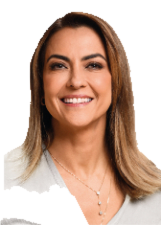
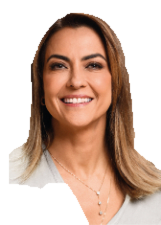
Refine all portraits and add G1 first-round history

diff --git a/public/app.js b/public/app.js
@@ -157,6 +157,7 @@ const state = {
   lastSourceComparison: 0,
   sourceComparisons: [],
   historyArchive: null,
+  publishedHistory: null,
 };
 const MAX_LOCAL_HISTORY_POINTS = 720;
 function numberForCandidate(candidate) {
@@ -233,9 +234,27 @@ const providerName = (p) =>
     "eleicoes-feed": "Feed independente",
     "placar-do-voto": "Placar do Voto",
     "cnn-brasil": "CNN Brasil · painel baseado no TSE",
+    "g1-history": "G1 · histórico baseado no TSE",
     "historical-archive": "Acervo histórico · TSE derivado",
   })[p] || "Indisponível";
 let electionArchivePromise = null;
+let firstRoundHistoryPromise = null;
+function loadFirstRoundHistory() {
+  firstRoundHistoryPromise ??= fetch(`${import.meta.env.BASE_URL}data/history-2026-1-br.json`, {
+    cache: "no-cache",
+  }).then(async (response) => {
+    if (!response.ok) throw new Error(`Histórico do G1 indisponível (HTTP ${response.status}).`);
+    const data = await response.json();
+    if (data.schemaVersion !== 1 || data.year !== 2026 || data.turn !== 1 ||
+      data.provider !== "g1-history" || !Array.isArray(data.points))
+      throw new Error("Arquivo histórico do G1 inválido.");
+    return data;
+  }).catch((error) => {
+    firstRoundHistoryPromise = null;
+    throw error;
+  });
+  return firstRoundHistoryPromise;
+}
 function loadElectionArchive() {
   electionArchivePromise ??= fetch(`${import.meta.env.BASE_URL}data/results.json`, {
     cache: "no-cache",
@@ -782,6 +801,22 @@ function chooseWorldCountry(event) {
 let chartPoints = [];
 function renderHistory(history) {
   const selected = candidates(state.result);
+  const publishedHistoryKey = `2026:1:${state.scope}`;
+  if (state.year === 2026 && state.turn === 1 && state.scope === "brasil" &&
+      state.publishedHistory?.key !== publishedHistoryKey) {
+    state.publishedHistory = { key: publishedHistoryKey, points: null, error: null };
+    loadFirstRoundHistory().then((archive) => {
+      if (state.year !== 2026 || state.turn !== 1 || state.scope !== "brasil" ||
+        state.publishedHistory?.key !== publishedHistoryKey) return;
+      state.publishedHistory = { key: publishedHistoryKey, ...archive };
+      renderHistory(state.history);
+    }).catch((error) => {
+      console.warn("Não foi possível abrir o histórico publicado do G1:", error.message);
+      if (state.publishedHistory?.key !== publishedHistoryKey) return;
+      state.publishedHistory = { key: publishedHistoryKey, points: [], error: error.message };
+      renderHistory(state.history);
+    });
+  }
   const hasArchivedFinal = state.year === 2022 || (state.year === 2026 && state.turn === 1);
   const archiveKey = `${state.year}:${state.turn}:${state.scope}:${state.pair.join(",")}`;
   if (hasArchivedFinal && state.historyArchive?.key !== archiveKey) {
@@ -833,10 +868,27 @@ function renderHistory(history) {
   const archive = hasArchivedFinal && state.historyArchive?.key === archiveKey
     ? state.historyArchive
     : null;
+  const publishedHistory = state.publishedHistory?.key === publishedHistoryKey
+    ? state.publishedHistory
+    : null;
   const archivedRoundSeries = state.year === 2022 && Array.isArray(archive?.points);
-  const archivedSingleRound = state.year === 2026 && state.turn === 1 && Array.isArray(archive?.points);
-  $("historyEyebrow").textContent = archivedRoundSeries || archivedSingleRound ? "RESULTADOS FINAIS ARQUIVADOS" : "EVOLUÇÃO DA DISPUTA";
-  $("historyTitle").textContent = archivedRoundSeries ? "Comparação entre os turnos" : archivedSingleRound ? "Resultado final · 1º turno" : "Histórico de votos";
+  const liveG1History = history?.provider === "g1-history" &&
+    Array.isArray(history.points) && history.points.length > 0;
+  const staticG1History = Array.isArray(publishedHistory?.points) && publishedHistory.points.length > 0;
+  const temporalFirstRound = state.year === 2026 && state.turn === 1 &&
+    (liveG1History || staticG1History);
+  const archivedSingleRound = state.year === 2026 && state.turn === 1 &&
+    Array.isArray(archive?.points) && !temporalFirstRound;
+  $("historyEyebrow").textContent = archivedRoundSeries
+    ? "RESULTADOS FINAIS ARQUIVADOS"
+    : temporalFirstRound
+      ? "SÉRIE HISTÓRICA G1 · BASEADA NO TSE"
+      : archivedSingleRound ? "RESULTADOS FINAIS ARQUIVADOS" : "EVOLUÇÃO DA DISPUTA";
+  $("historyTitle").textContent = archivedRoundSeries
+    ? "Comparação entre os turnos"
+    : temporalFirstRound
+      ? "Evolução da apuração · 1º turno"
+      : archivedSingleRound ? "Resultado final · 1º turno" : "Histórico de votos";
   $("windowSelect").disabled = archivedRoundSeries || archivedSingleRound;
   $("windowSelect").value = archivedRoundSeries || archivedSingleRound ? "all" : state.window;
   const localPoints = state.year === 2026
@@ -846,30 +898,42 @@ function renderHistory(history) {
         right: Number.isFinite(sample.values[state.pair[1]]) ? sample.values[state.pair[1]] : null,
       }))
     : [];
-  const remoteAllowed =
-    state.year === 2026 &&
-    state.turn === 2 &&
-    new Set(state.pair).size === 2 &&
-    state.pair.includes("22") &&
-    state.pair.includes("13");
+  const firstRoundPoints = liveG1History ? history.points : staticG1History ? publishedHistory.points : [];
+  const remoteAllowed = state.year === 2026 && (
+    (state.turn === 1 && firstRoundPoints.length > 0) ||
+    (state.turn === 2 && new Set(state.pair).size === 2 &&
+      state.pair.includes("22") && state.pair.includes("13"))
+  );
   const remotePoints = remoteAllowed
-    ? historyPoints(history?.points).map((point) => ({
+    ? historyPoints(state.turn === 1 ? firstRoundPoints : history?.points).map((point) => ({
         at: point.at,
-        left: state.pair[0] === "22" ? point.flavio : point.lula,
-        right: state.pair[1] === "22" ? point.flavio : point.lula,
+        left: Object.hasOwn(point.candidates || {}, state.pair[0])
+          ? point.candidates[state.pair[0]]
+          : state.pair[0] === "22" ? point.flavio : state.pair[0] === "13" ? point.lula : null,
+        right: Object.hasOwn(point.candidates || {}, state.pair[1])
+          ? point.candidates[state.pair[1]]
+          : state.pair[1] === "22" ? point.flavio : state.pair[1] === "13" ? point.lula : null,
       }))
     : [];
-  const remoteFiltered = filterHistoryWindow(remotePoints, state.window);
-  const points = archivedRoundSeries || archivedSingleRound
+  const remoteFiltered = filterHistoryWindow(
+    remotePoints,
+    state.window,
+    temporalFirstRound && remotePoints.length ? remotePoints.at(-1).at : Date.now(),
+  );
+  const points = archivedRoundSeries
     ? archive.points
-    : remoteFiltered.length
-    ? remoteFiltered
-    : filterHistoryWindow(localPoints, state.window);
-  const localSelected = !remoteFiltered.length && localPoints.length > 0;
+    : temporalFirstRound
+      ? remoteFiltered
+      : remoteFiltered.length
+        ? remoteFiltered
+        : archivedSingleRound ? archive.points : filterHistoryWindow(localPoints, state.window);
+  const localSelected = !temporalFirstRound && !remoteFiltered.length && localPoints.length > 0;
   const chartHistoryError =
-    state.year === 2022 || (state.year === 2026 && state.turn === 1)
+      state.year === 2022 || archivedSingleRound || temporalFirstRound
       ? archive?.error
         ? `Não foi possível abrir os resultados finais do acervo: ${archive.error}`
+        : temporalFirstRound
+          ? !points.length ? "O G1 não tem pontos publicados nesta janela." : null
         : !(archivedRoundSeries || archivedSingleRound)
           ? "Carregando os resultados finais arquivados desta eleição."
           : !points.length
@@ -931,6 +995,10 @@ function renderHistory(history) {
   $("historyLegendLula").parentElement.querySelector(".dot").style.backgroundColor = series[1].color;
   $("historySource").textContent = archivedRoundSeries
     ? "Acervo histórico independente · TSE derivado"
+    : temporalFirstRound
+    ? liveG1History
+      ? providerName(history?.provider)
+      : "G1 · arquivo histórico baseado no TSE"
     : archivedSingleRound
     ? `${providerName(archive?.provider)} · resultado final arquivado`
     : remoteFiltered.length
@@ -940,6 +1008,8 @@ function renderHistory(history) {
       : "Fonte sem série disponível";
   $("historyNote").textContent = archivedRoundSeries && points.length
     ? "Percentuais finais reais do 1º e do 2º turno, por localidade. O acervo não guarda a evolução horária da apuração; candidato ausente em um turno permanece como lacuna."
+    : temporalFirstRound && points.length
+    ? `Atualizações históricas publicadas pelo G1 (${points.length} pontos) para esta localidade. Os percentuais vêm do painel baseado no TSE; lacunas permanecem vazias.`
     : archivedSingleRound && points.length
     ? "Percentuais finais publicados do 1º turno nesta localidade. O acervo não guarda a evolução horária da apuração; este ponto não representa uma série temporal."
     : localSelected && points.length
@@ -949,11 +1019,11 @@ function renderHistory(history) {
       : "Lacunas permanecem vazias. Nenhum valor é estimado.");
   $("chartTooltip").hidden = true;
 }
-function filterHistoryWindow(points, windowKey) {
+function filterHistoryWindow(points, windowKey, anchor = Date.now()) {
   if (windowKey === "all") return points.slice().sort((a, b) => a.at - b.at);
   const horizon = windowKey === "1h" ? 3600000 : 10800000;
-  const min = Date.now() - horizon;
-  return points.filter((point) => point.at >= min && point.at <= Date.now()).sort((a, b) => a.at - b.at);
+  const min = anchor - horizon;
+  return points.filter((point) => point.at >= min && point.at <= anchor).sort((a, b) => a.at - b.at);
 }
 function tooltip(event) {
   const node = event.target.closest("[data-point]");
@@ -1282,8 +1352,10 @@ function changeElection() {
   resetEventContext();
   state.year = Number($("yearSelect").value);
   state.turn = Number($("turnSelect").value);
+  if (state.year === 2026 && state.turn === 1) state.window = "all";
   state.pair = ["22", "13"];
   setComparisonNumbers(state.pair);
+  $("windowSelect").value = state.window;
   revision++;
   controller?.abort();
   snapshotController?.abort();

diff --git a/public/images/credits.html b/public/images/credits.html
@@ -98,12 +98,11 @@
   <section>
     <h2>Tratamento aplicado</h2>
     <p>
-      As fotografias JPEG originais dos candidatos estão preservadas. As cópias
-      PNG com canal alpha tiveram o fundo removido por preenchimento conectado
-      iniciado nos cantos, com tolerância de cor de 8%; os pixels do retrato
-      mantidos não foram gerados nem repintados. Essa técnica também é aplicada
-      aos retratos de candidatura de 2022 e 2026 incluídos neste repositório.
-      Não se usam rostos gerados no painel.
+      As fotografias JPEG originais dos candidatos estão preservadas. Os vinte
+      retratos complementares (dez de 2022 e dez de 2026) foram recortados
+      novamente como PNG com canal alpha usando segmentação GrabCut e máscaras
+      de contorno. Os pixels RGB coincidem com os JPEGs originais; somente o
+      canal alpha foi refeito. Não se usam rostos gerados no painel.
     </p>
     <p>
       O recorte muda apenas a transparência do fundo e das bordas; as fotos JPEG
@@ -115,13 +114,11 @@
       servidos localmente; não há dependência de CDN de imagens.
     </p>
     <p>
-      Neste ajuste, as máscaras alpha dos dez retratos de 2022 e dos dez
-      retratos complementares de 2026 tiveram uma contração uniforme de borda
-      e um feather leve para reduzir halos claros. Os pixels RGB das fotografias
-      foram preservados integralmente. Flávio e Lula mantêm seus PNGs próprios.
-      O fundo que permanecia junto à silhueta no retrato pequeno de Renan Santos
-      foi removido com uma máscara alpha manual baseada no contorno visível; os
-      pixels da foto não foram apagados ou retocados.
+      As máscaras receberam contração leve e feather para reduzir halos claros.
+      Augusto Cury, Renan Santos, Zema e os demais candidatos usam o mesmo
+      tratamento; fundos que não puderam ser separados com segurança permanecem
+      indisponíveis em vez de serem substituídos por ilustrações. Flávio e Lula
+      mantêm seus PNGs próprios.
       A lista de candidatos continua condicionada aos registros que a fonte
       publica para a eleição e o turno escolhidos.
     </p>

diff --git a/public/dashboard-data.js b/public/dashboard-data.js
@@ -211,6 +211,9 @@ export function historyPoints(points) {
       at: Date.parse(p.at),
       flavio: percent(p.flavioPercent),
       lula: percent(p.lulaPercent),
+      candidates: Object.fromEntries(
+        Object.entries(p.candidatePercents || {}).map(([number, value]) => [number, percent(value)]),
+      ),
     }))
     .filter((p) => Number.isFinite(p.at))
     .sort((a, b) => a.at - b.at);

diff --git a/README.md b/README.md
@@ -26,6 +26,8 @@ O frontend precisa do Vite: o HTML bruto servido pelo servidor Node não substit
 
 No ambiente na nuvem com proxy HTTPS, use **Node 24** e `NODE_USE_ENV_PROXY=1 npm start`. Isso permite ao `fetch` nativo usar o proxy já configurado, preservando a validação TLS e os certificados fornecidos pela plataforma. Não defina tokens ou desative certificados para contornar erros.
 
+Para atualizar o acervo histórico nacional do 1º turno pelo feed público do G1 e salvar os pontos em `static/data/history-2026-1-br.json`, use `NODE_USE_ENV_PROXY=1 npm run data:archive2026history`. O comando grava somente a resposta validada do G1, mantendo a URL, o provedor e a hora da coleta no arquivo.
+
 ## Build e GitHub Pages
 
 `VITE_API_BASE_URL` é uma variável **de build** com a URL HTTP(S) pública do backend, sem `/api` no final. Não coloque segredo nela. Em desenvolvimento é injetada no processo Vite; mudar o valor exige reiniciá-lo. Em produção exige novo build.
@@ -50,7 +52,7 @@ Em **Configurações → URL do backend (opcional)**, salve uma URL HTTPS públi
 
 Os percentuais exibidos são referentes a todos os votos válidos, não recalculados para fingir que dois candidatos do primeiro turno somam 100%. O espaço restante da barra representa os demais candidatos; o fundo distribui as duas cores pela razão da comparação selecionada. O histórico local é filtrado por ano, turno, localidade e provedor; não combina fontes diferentes nem reaproveita a série de outra eleição. Para acompanhar desde o primeiro fechamento, a página precisa estar aberta para guardar a primeira publicação válida; uma fonte sem arquivo anterior não permite reconstrução retroativa.
 
-Ao abrir um candidato na lista, o perfil mostra os votos e o percentual da localidade atual, posição nacional quando calculável e resultados por UF que estejam presentes no snapshot da mesma eleição. UFs ausentes ficam sem preenchimento. O painel resume quem tem mais votos em cada região; “possibilidade de virada” permanece indeterminada se a fonte não publicar uma estimativa verificável de votos restantes. Para 2026/1, o gráfico agora mostra os percentuais finais arquivados dos candidatos e da localidade selecionados em um ponto único; não havia série temporal publicada para esse turno, então não é possível reconstruir quando cada um subiu ou caiu. Para 2026/2, o gráfico acompanha observações válidas feitas neste navegador ou pontos históricos que a fonte publicar. Para 2022, compara os percentuais finais do acervo nos dois turnos; isso também não representa a evolução horária da apuração.
+Ao abrir um candidato na lista, o perfil mostra os votos e o percentual da localidade atual, posição nacional quando calculável e resultados por UF que estejam presentes no snapshot da mesma eleição. UFs ausentes ficam sem preenchimento. O painel resume quem tem mais votos em cada região; “possibilidade de virada” permanece indeterminada se a fonte não publicar uma estimativa verificável de votos restantes. Para 2026/1, o gráfico usa a série nacional pública do G1, com 384 pontos e percentuais publicados durante a apuração; o arquivo permite consultá-la no GitHub Pages sem backend. O feed G1 não retornou uma série validada para o 2º turno, portanto esse turno só mostra pontos observados quando uma fonte publicar histórico ou o navegador registrar atualizações válidas. Para 2022, o acervo contém resultados finais dos dois turnos, sem evolução horária; não há série temporal para reconstruir.
 
 O mapa mundial foi construído localmente a partir de [Natural Earth, escala 1:110m](https://www.naturalearthdata.com/downloads/110m-cultural-vectors/110m-admin-0-countries/), conjunto cartográfico em domínio público. O código ISO recebido da API é normalizado antes de associar cada país; locais publicados sem votos válidos ficam em azul neutro e selecionáveis, enquanto somente resultados válidos recebem a cor do candidato à frente. Países sem local publicado continuam neutros. O painel informa separadamente quantos países estão disponíveis e quantos já têm votos válidos.
 
@@ -68,6 +70,7 @@ Fonte arquivada: [kalebefukuda/brazil-election-results-2026, public/historico/20
 | ---------------------------- | ------------------------------------ | --------------------------------------------------------------------------------------------------------------------------------------------------------------------------------------------------------------------------- |
 | TSE, `resultados.tse.jus.br` | **TSE oficial**                      | JSON oficial de 2026/6258; candidatos em `carg[].agr[].par[].cand[]`, seções em `s`, votos em `v`. Aceita também o formato legado dos testes.                                                                               |
 | `eleicoes2026brasil.com`     | **Feed independente baseado no TSE** | API documentada em [OpenAPI](https://eleicoes2026brasil.com/openapi.json): `/feed/agora.json`, `/feed/uf/zz.json`, `/feed/historico.json`; metadados de locais via representação Markdown documentada das páginas públicas. |
+| [G1 Eleições](https://g1.globo.com/politica/eleicoes/2026/apuracao/presidente.ghtml) | **Feed independente baseado no TSE** | O código público do painel carrega `https://s.glbimg.com/jo/el/2026/apuracao/{turno}-turno/marcha-apuracao/HISTORICO_EXECUTIVO_PRESIDENTE_{BR|UF}.JSON`. O 1º turno nacional disponibilizou 384 atualizações históricas com votos e percentuais por candidato. O backend lê esse JSON; GitHub Pages usa um arquivo arquivado a partir da mesma URL, identificado como G1 e separado do resultado oficial do TSE. |
 | `placardovoto.com`           | **Feed independente baseado no TSE** | `/api/public/v1/resultados/2026/2/presidente/{uf}/`; formato atual `result.candidates`, `freshness`, `percentageBasis`, além do formato legado. Avisos de conferência pendente da fonte são preservados.                    |
 | [CNN Brasil](https://www.cnnbrasil.com.br/eleicoes/2026/apuracao/br/segundo-turno/) | **Painel que credita o TSE** | Endpoint público descoberto no código da página de apuração: `/oficial/2026/2t/resume/zz/presidente.json`. Contrato observado no cliente: registros por `uf`, `candidates[].votes` e `resume.counted_ballot_box`. Integração limitada ao total geral do exterior; não preenche países/cidades. |
 
@@ -91,7 +94,7 @@ O arquivo compacto de ZZ não informa seu horário de geração. Nesses resultad
 
 A tela consulta a localidade selecionada a cada **3 segundos**, suspende consultas quando a aba fica oculta e cancela respostas antigas ao trocar localidade. O exterior completo e a comparação de fontes atualizam em até **30 segundos**; mapa/regiões em até 60 segundos; metadados de localidades são reutilizados por seis horas no backend. Não se promete “tempo real” além do que a fonte publica.
 
-Detalhamento de países/cidades e séries temporais do backend legado cobre somente 2026/segundo turno; em outras eleições o serviço informa indisponibilidade em vez de usar a série errada. Brasil, estados e total ZZ estão nos arquivos publicados dos quatro contextos.
+Resultados de países/cidades continuam limitados pelo que cada provedor publica. Para o histórico, o backend consulta a série do G1 por Brasil/UF no turno selecionado; em 2026/1, a publicação está disponível sem backend via arquivo nacional de 384 pontos. O G1 não publicou série ZZ validada, portanto o exterior não reutiliza o histórico do Brasil.
 
 O backend usa cache fresco (TSE/Placar 30 s, feed 15 s), ETag, Last-Modified, revalidação 304, coalescência de pedidos concorrentes, limite global de quatro consultas externas e cooldown/backoff para falhas e 429. Um Retry-After longo vira cooldown, sem prender um worker dormindo. O horário da coleta é preservado no cache; uma resposta em cache não recebe um horário ficticiamente novo.
 
@@ -113,7 +116,7 @@ A cor vem da liderança em votos e a intensidade da margem percentual válida. E
 
 Regiões são agregadas por provedor e tipo de fonte, exibindo cobertura de UFs, totais dos dois candidatos, diferença e horário mais antigo do grupo. Provedores distintos nunca são somados. Percentuais regionais usam o total de votos válidos reportado, quando disponível e consistente; cobertura incompleta é identificada. Não se converte uma UF ausente em zero.
 
-O gráfico usa SVG local, cores dos candidatos selecionados, legenda, janela temporal e tooltip por toque/ponteiro/foco. No segundo turno nacional de 2026, usa a série remota quando a fonte a fornece; em 2026/1 e para outros pares, registra no navegador cada resposta oficial ou feed independente válida recebida enquanto a página está aberta. Assim, a série começa no primeiro resultado válido observado após o fechamento/publicação de seções, não reconstrói horários anteriores à primeira observação e não sincroniza dados entre dispositivos. Para 2022, apresenta uma comparação entre os totais finais arquivados nos turnos de 2 e 30 de outubro; não existe evolução horária no acervo. Valores nulos quebram segmentos; não são preenchidos com zero nem interpolados. Sem números para um candidato/local, o ponto continua ausente.
+O gráfico usa SVG local, cores dos candidatos selecionados, legenda, janelas temporais e tooltip por toque/ponteiro/foco. Para 2026/1, usa a série pública do G1, baseada nos dados do TSE, com 384 atualizações nacionais arquivadas e consulta do backend por Brasil/UF. GitHub Pages pode mostrar a série nacional sem backend; o endpoint externo não permite leitura direta no navegador por CORS. Para 2026/2, usa a série remota quando o provedor a fornece; outras séries começam na primeira resposta válida observada pelo navegador. Para 2022, compara os totais finais arquivados nos turnos de 2 e 30 de outubro; não existe evolução horária no acervo. Valores nulos quebram segmentos; não são preenchidos com zero nem interpolados. Sem números para um candidato/local, o ponto continua ausente.
 
 ## Retratos e licenças
 
